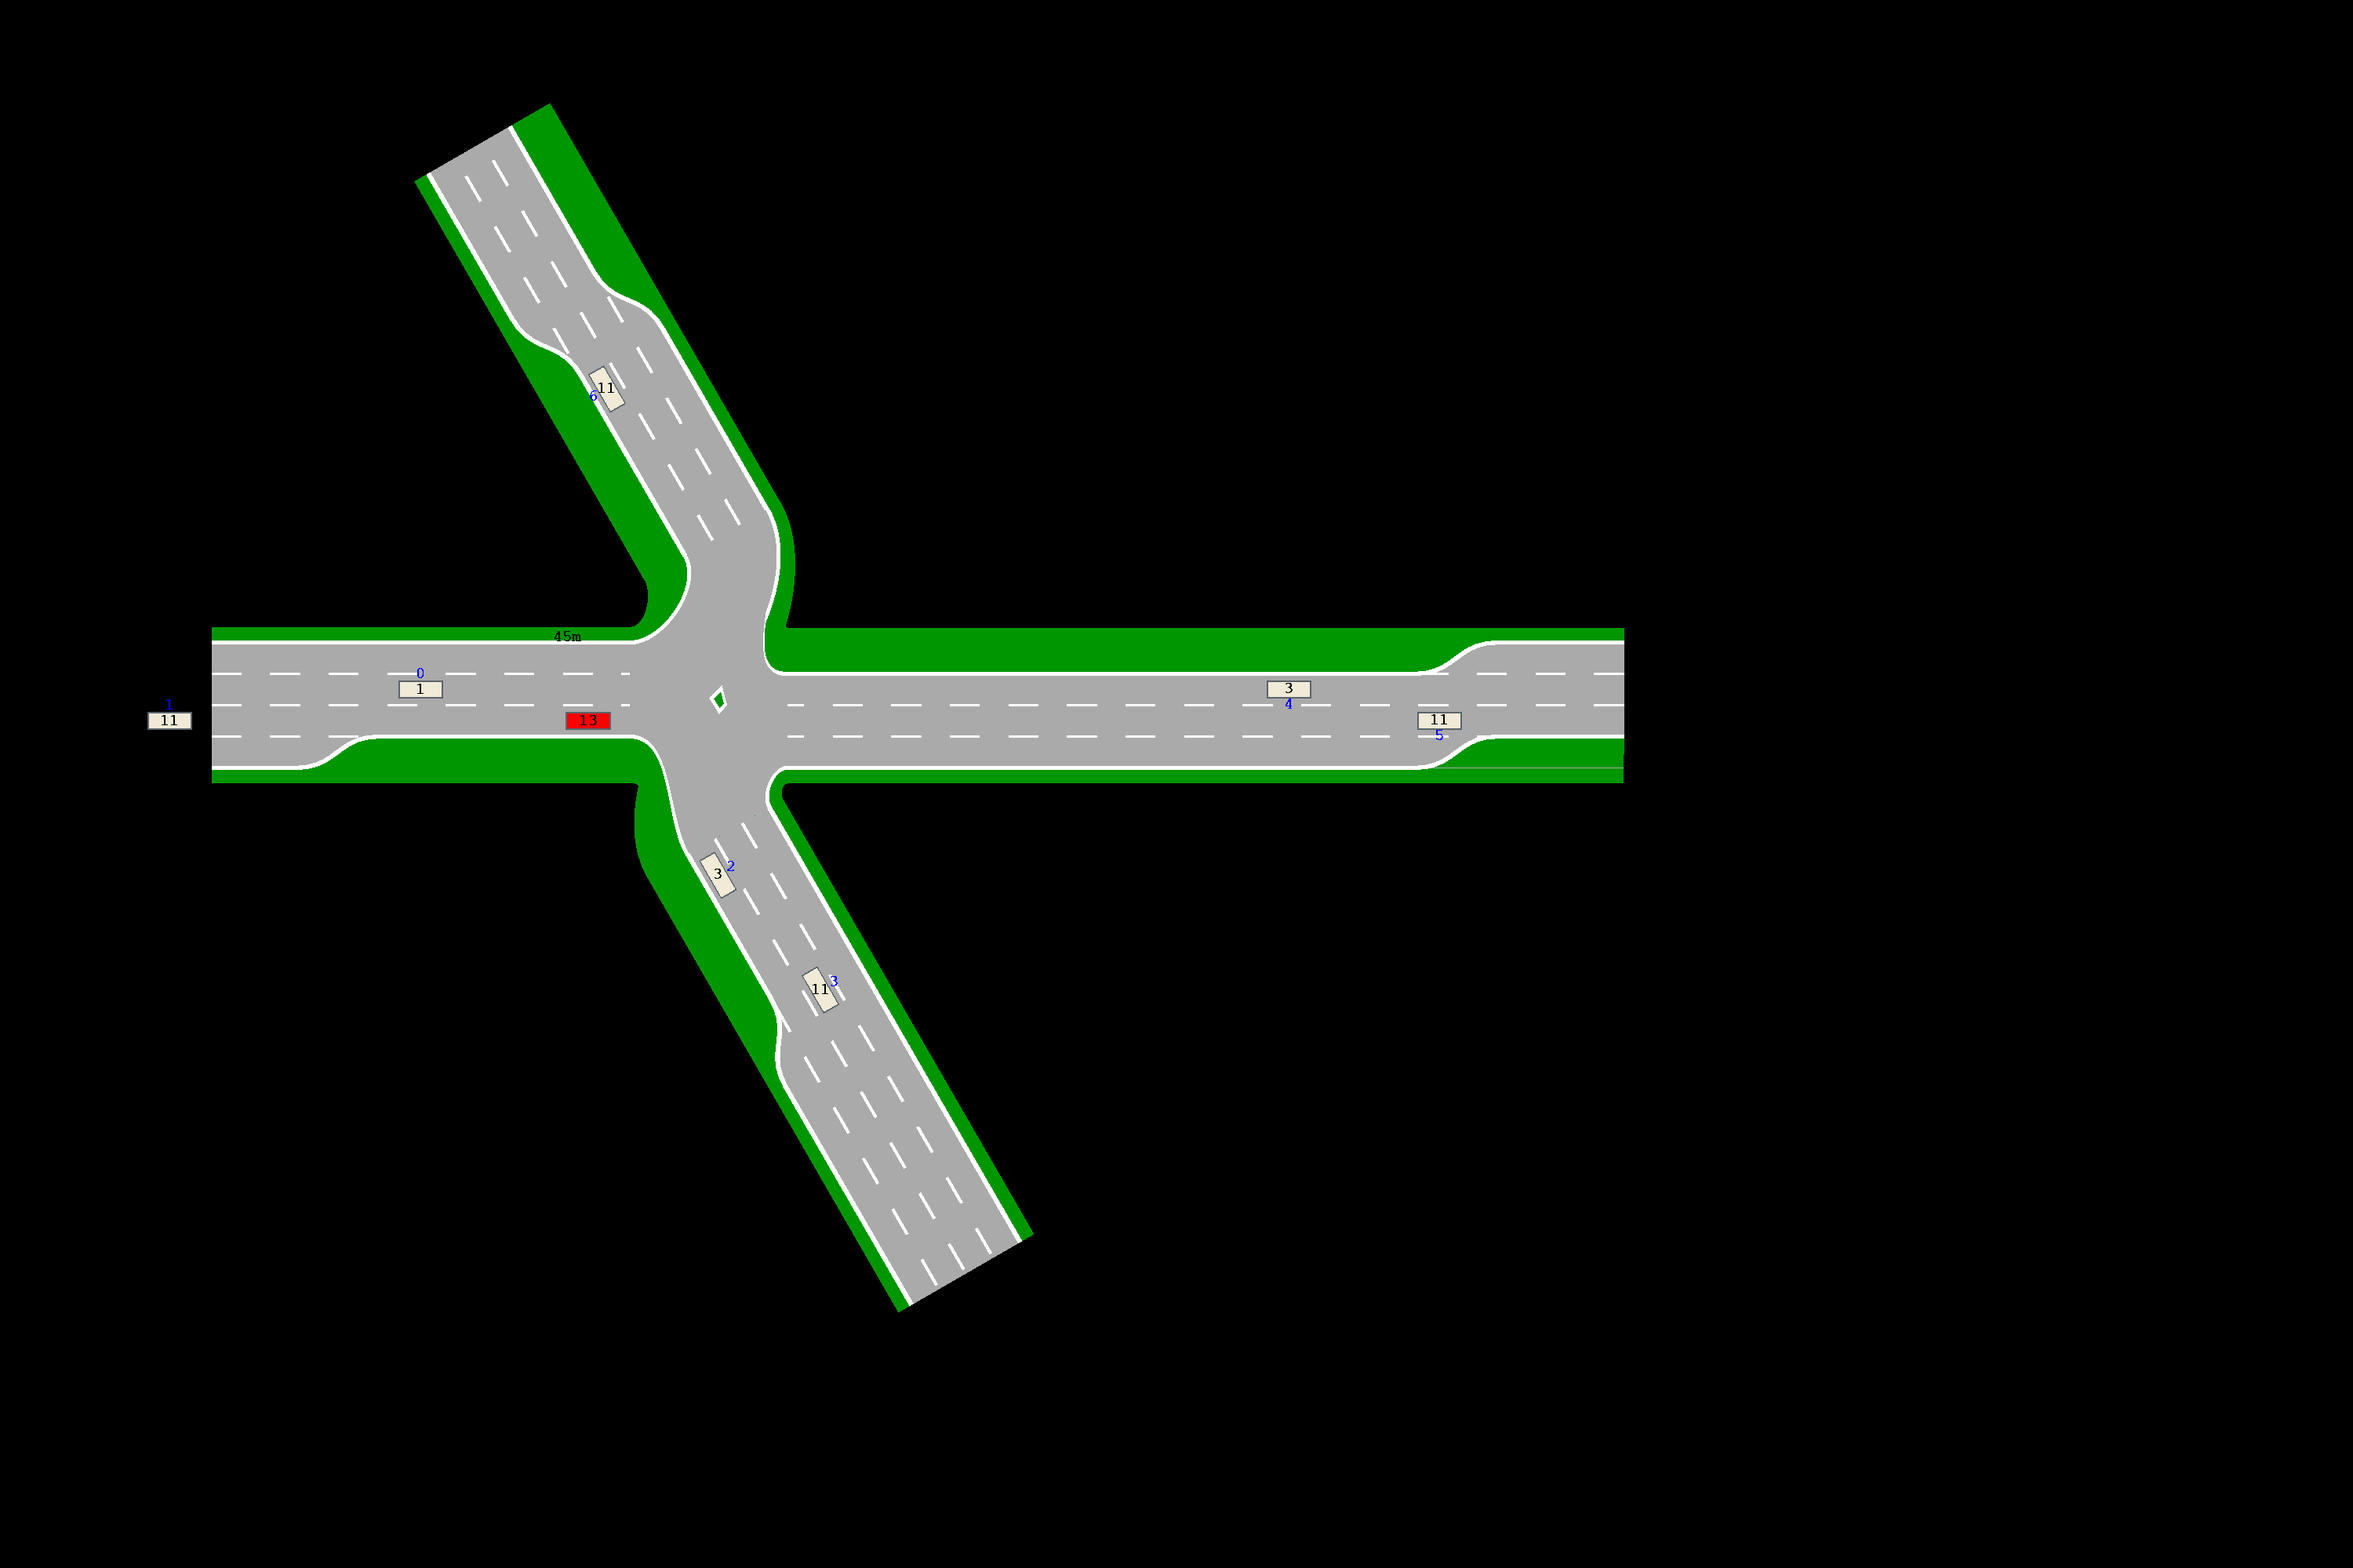
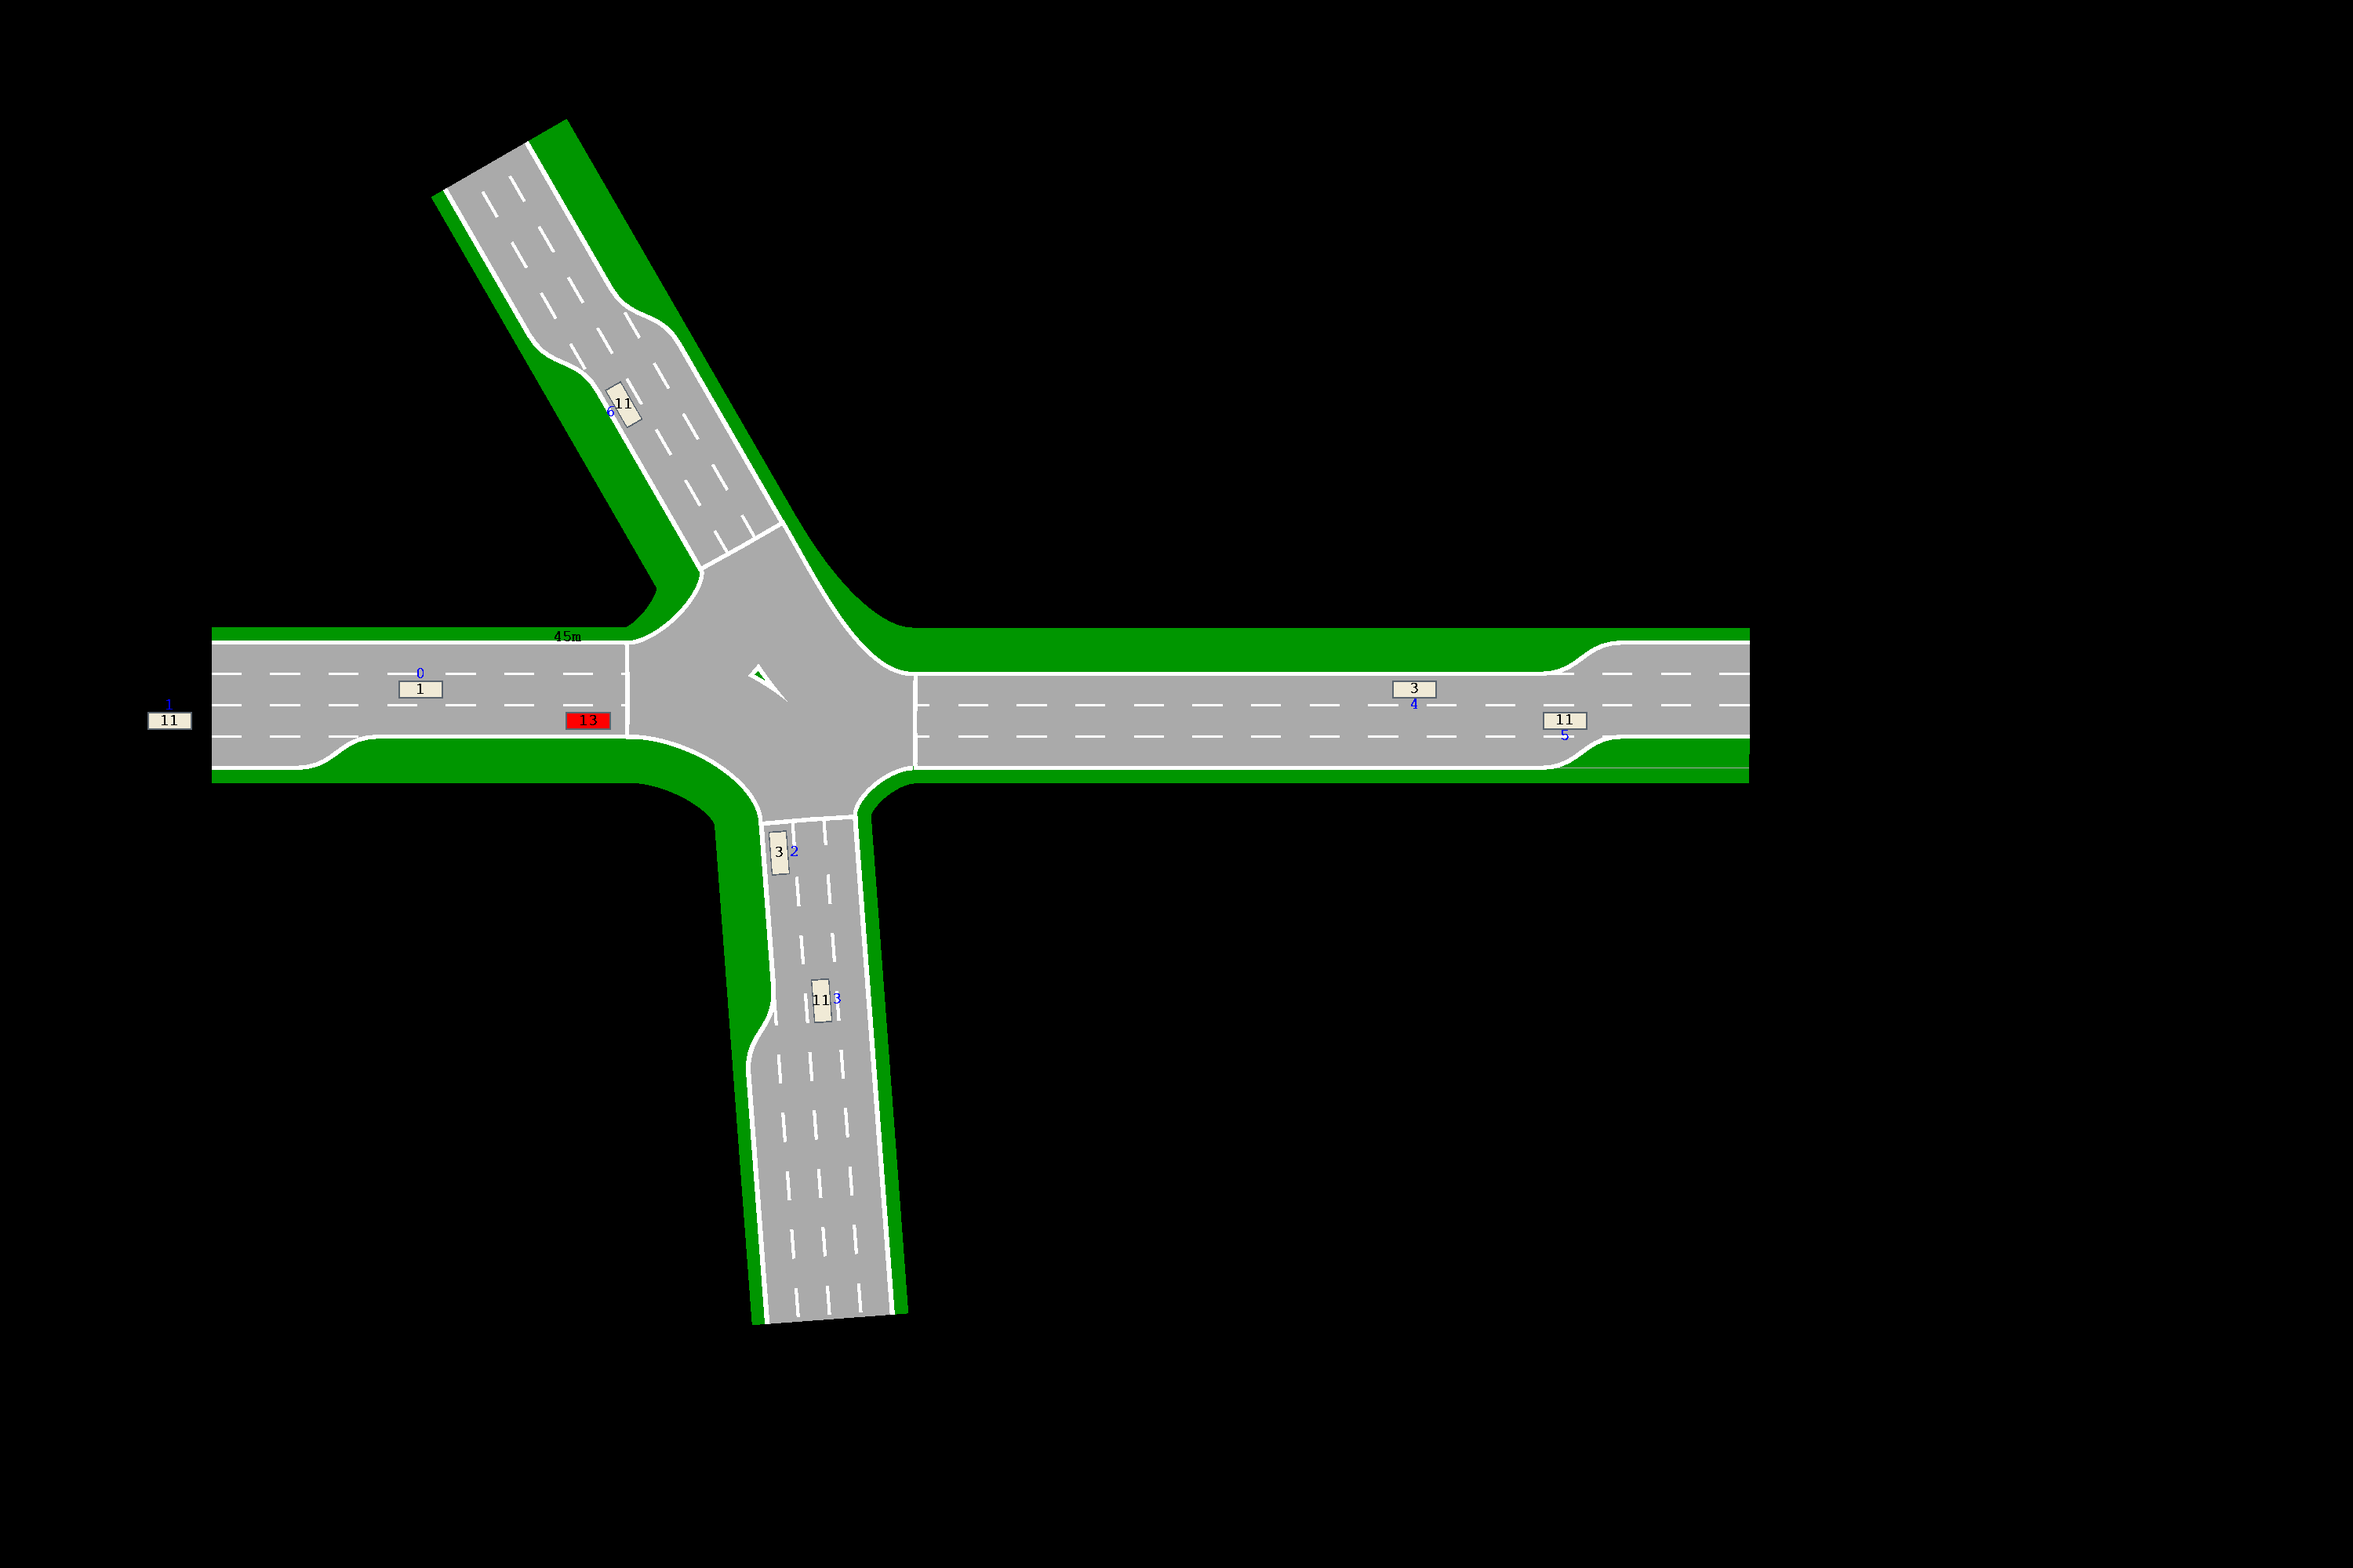
Looks nice, for sure

diff --git a/src/highway_image.cpp b/src/highway_image.cpp
@@ -473,7 +473,7 @@ void vfm::HighwayImage::removeNonExistentLanesAndMarkShoulders(
             ConnectorPolygonEnding::Side::drain,
             Lin2D{ top_right_corner, top_right_second }, // outgoing (temp; will be adjusted when bottom part becomes available)
             0, // temp thickness; will be calculated when bottom part becomes available
-            std::make_shared<Color>(PAVEMENT_COLOR),
+            std::make_shared<Color>(0, 0, 0, 0),
             3,
             getHighwayTranslator() });
 
@@ -481,8 +481,24 @@ void vfm::HighwayImage::removeNonExistentLanesAndMarkShoulders(
             ConnectorPolygonEnding::Side::source,
             Lin2D{ top_left_corner, top_left_second }, // incoming (temp; will be adjusted when bottom part becomes available)
             0, // temp thickness; will be calculated when bottom part becomes available
-            std::make_shared<Color>(PAVEMENT_COLOR),
+            std::make_shared<Color>(0, 0, 0, 0),
             3,
+            getHighwayTranslator() });
+
+         connections.insert(connections.begin(), ConnectorPolygonEnding{
+            ConnectorPolygonEnding::Side::drain,
+            Lin2D{ top_right_corner, top_right_second }, // outgoing (temp; will be adjusted when bottom part becomes available)
+            0, // temp thickness; will be calculated when bottom part becomes available
+            std::make_shared<Color>(PAVEMENT_COLOR),
+            4,
+            getHighwayTranslator() });
+
+         connections.insert(connections.begin(), ConnectorPolygonEnding{
+            ConnectorPolygonEnding::Side::source,
+            Lin2D{ top_left_corner, top_left_second }, // incoming (temp; will be adjusted when bottom part becomes available)
+            0, // temp thickness; will be calculated when bottom part becomes available
+            std::make_shared<Color>(PAVEMENT_COLOR),
+            4,
             getHighwayTranslator() });
 
          auto top_left_corner_1 = top_left_corner;
@@ -587,7 +603,7 @@ void vfm::HighwayImage::removeNonExistentLanesAndMarkShoulders(
          //   getHighwayTranslator() });
 
          for (auto& connection : connections) {
-            if (connection.id_ == 3) {
+            if (connection.id_ == 3 || connection.id_ == 4) {
                Vec2D middle_basepoint{ connection.connector_.base_point_ };
                Vec2D middle_second{ connection.connector_.direction_ };
 
@@ -1090,19 +1106,22 @@ void vfm::HighwayImage::paintRoadGraph(
                      {
                         const float step{ (thick_b - thick_a) / p.points_.size() };
                         return thick_a + point_num * step;
-                        }, { dock_point_a1, dock_point_a2 }, { dock_point_b1, dock_point_b2 });
+                        }, { /*dock_point_a1, dock_point_a2*/ }, { /*dock_point_b1, dock_point_b2*/ });
 
                      //p.add(a_outgoing_basepoint_translated);
                      //p.add(b_incoming_basepoint_translated);
                      //p.add(b_outgoing_basepoint_translated);
                      //p.bezier(b_outgoing_basepoint_translated, between3, between4, a_incoming_basepoint_translated);
                      //p.add(a_incoming_basepoint_translated);
-                     if (*A.col_ == PAVEMENT_COLOR) {
+                     if (*A.col_ == Color{0, 0, 0, 0}) {
                         Pol2D arrow_square{};
-                        arrow_square.createArrow(arrow, 10);
+                        arrow.add(*arrow.points_.begin());
+                        arrow_square.createArrow(arrow, 11);
                         fillPolygon(arrow_square, LANE_MARKER_COLOR);
                      }
-                     fillPolygon(arrow, *A.col_);
+                     else {
+                        fillPolygon(arrow, *A.col_);
+                     }
                      //drawPolygon(arrow, BLACK, true, true, true);
                   }
                }
